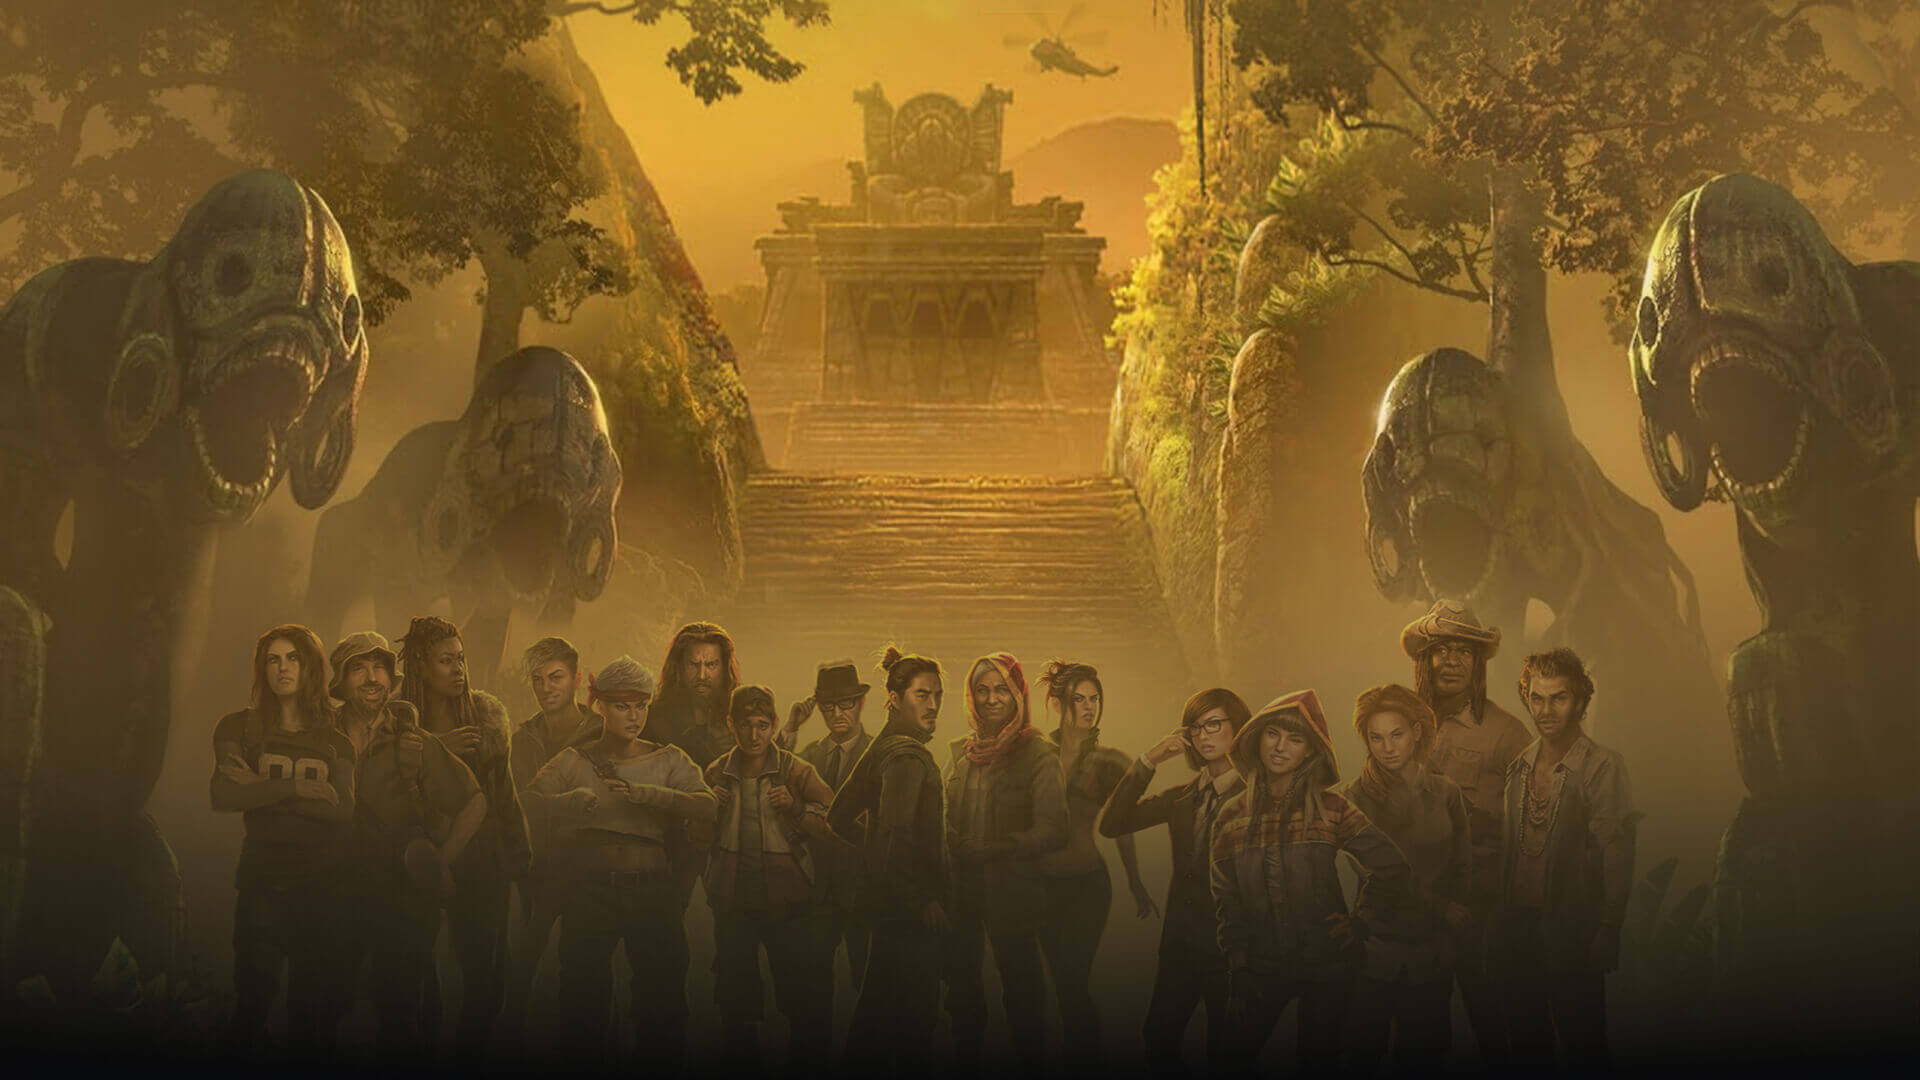
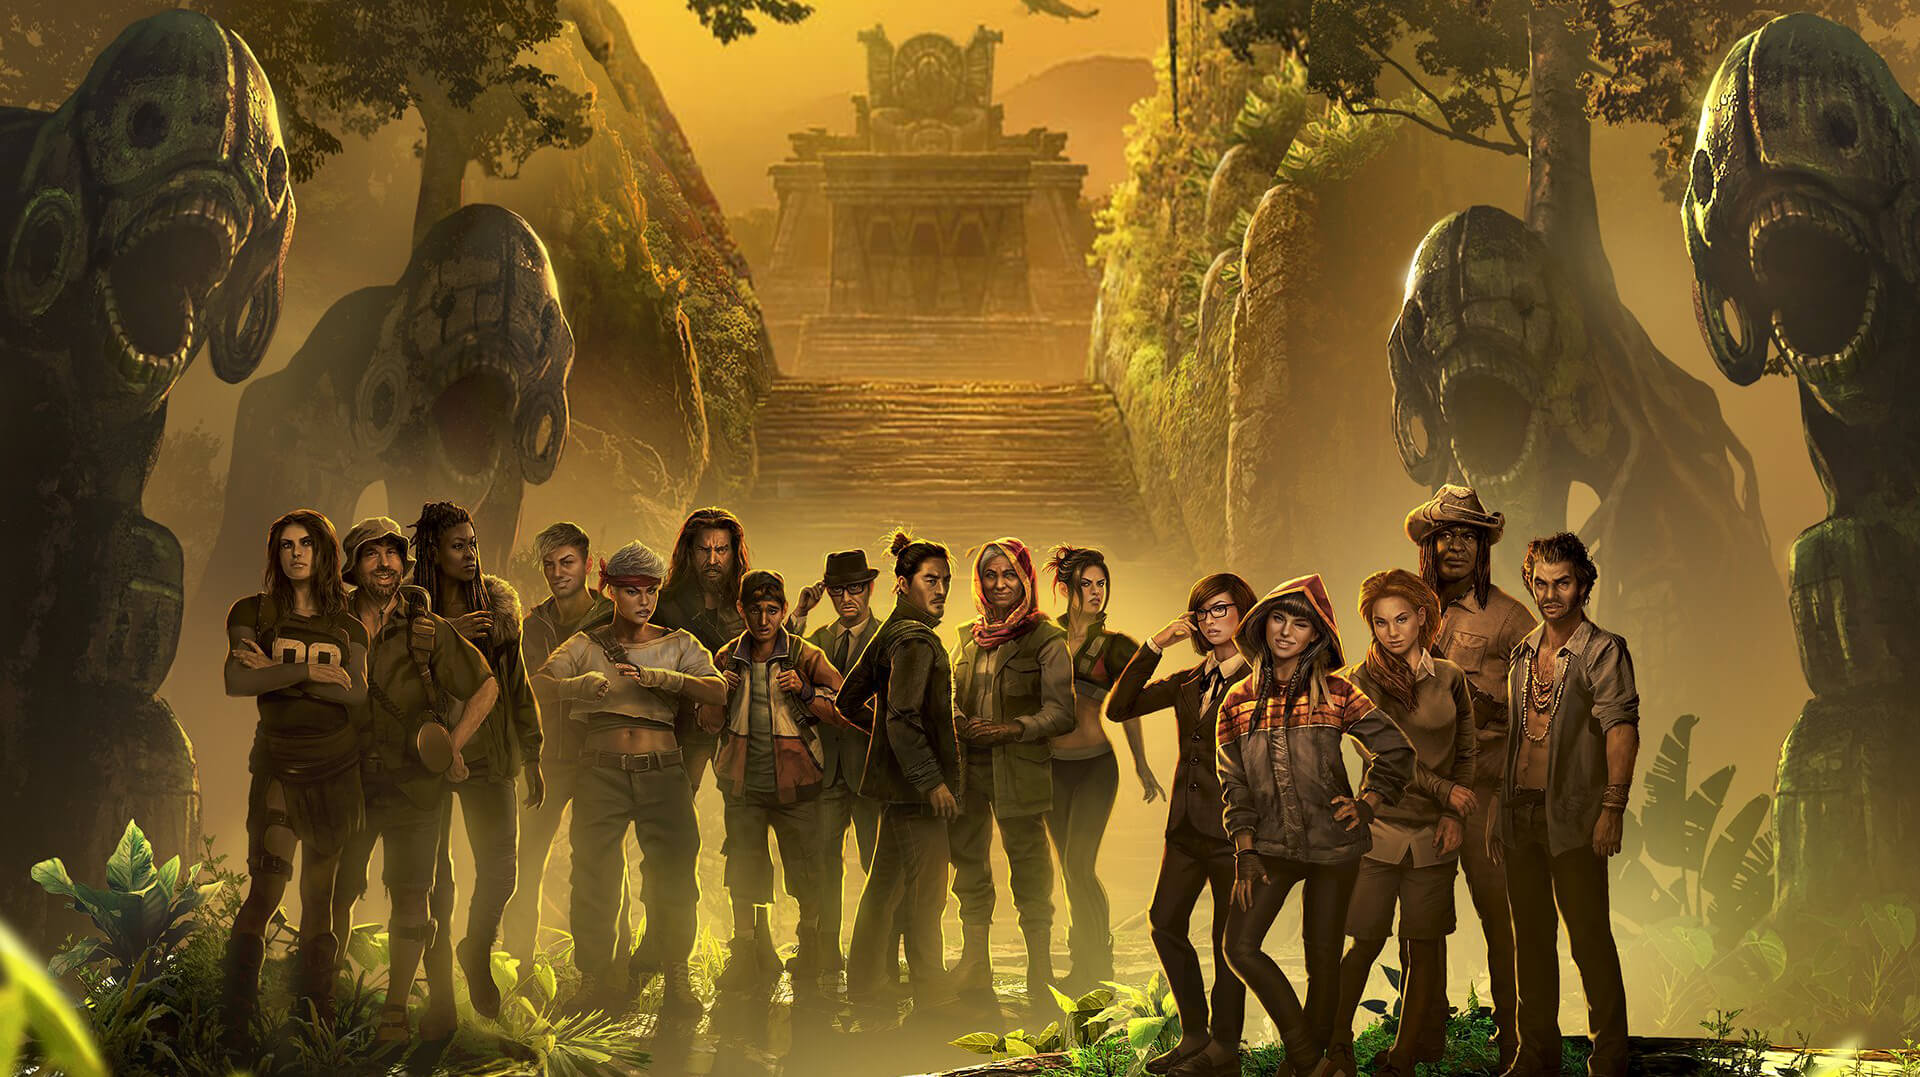
[IMP] - Image editing

diff --git a/style.css b/style.css
@@ -500,12 +500,25 @@ body.no-scroll .header {
 /* #Hero
 ================================================== */
 .hero {
-  min-height: 100vh;
+  height: 100vh;
+  height: calc(var(--vh, 1vh) * 100);
+  
   background-image: url('./img/hero-bg.jpg');
   background-repeat: no-repeat;
-  background-position: bottom;
+  background-position: top;
   background-size: cover;
   position: relative;
+}
+
+.hero::after {
+  content: "";
+  display: block;
+  position: absolute;
+  top: 0;
+  left: 0;
+  width: 100%;
+  height: 100%;
+  background-image: radial-gradient(at 40% 0, rgba(255, 181, 72, 0) 0%, rgba(52, 44, 29, 0.8032) 73.22%,#08090A 99.74%);
 }
 
 /* Text */
@@ -551,7 +564,7 @@ body.no-scroll .header {
 /* #About
 ================================================== */
 .about {
-  background-image: url('./img/about-bg.jpg');
+  /* background-image: url('./img/about-bg.jpg'); */
   background-repeat: no-repeat;
   background-position: center;
   background-size: cover;
@@ -701,10 +714,11 @@ body.no-scroll .header {
 /* #Features
 ================================================== */
 .features {
-  background-image: url('./img/features-bg.jpg');
+  background-image: url('./img/features-bg.png');
   background-repeat: no-repeat;
   background-position: top;
   background-size: cover;
+  background-color: #090b0c;
   padding: 200px 0;
 }
 
@@ -847,7 +861,7 @@ body.no-scroll .header {
 .sys-req {
   background-image: url('./img/sys-req-bg.jpg');
   background-repeat: no-repeat;
-  background-position: bottom;
+  background-position: center;
   background-size: cover;
   position: relative;
   padding: 150px 0;
@@ -925,13 +939,10 @@ body.no-scroll .header {
 /* #Press Quotes
 ================================================== */
 .press-quotes {
-  background-image: url('./img/quotes-bg.jpg');
-  background-repeat: no-repeat;
-  background-position: top;
-  background-size: cover;
   position: relative;
   display: flex;
   padding: 150px 0;
+  background-color: #090b0c;
 }
 
 .press-quotes .container {
@@ -1254,7 +1265,7 @@ body.no-scroll .header {
 /* #Footer
 ================================================== */
 .footer {
-  padding: 20px 0 45px 0;
+  padding: 45px 0;
   color: var(--white);
 }
 

diff --git a/index.html b/index.html
@@ -394,7 +394,7 @@
         <div class="container">
           <!-- Img -->
           <div class="img">
-            <img src="img/skull.jpg" alt="skull-img">
+            <img src="img/skull.png" alt="skull-img">
           </div>
           <!-- Text -->
           <div class="text">

diff --git a/main.js b/main.js
@@ -94,4 +94,8 @@ window.addEventListener('load', (event) => {
     }
   });
 
+  /*===============   Viewport Fix   ===============*/
+  let vh = window.innerHeight * 0.01;
+  document.documentElement.style.setProperty('--vh', `${vh}px`);
+
 });
